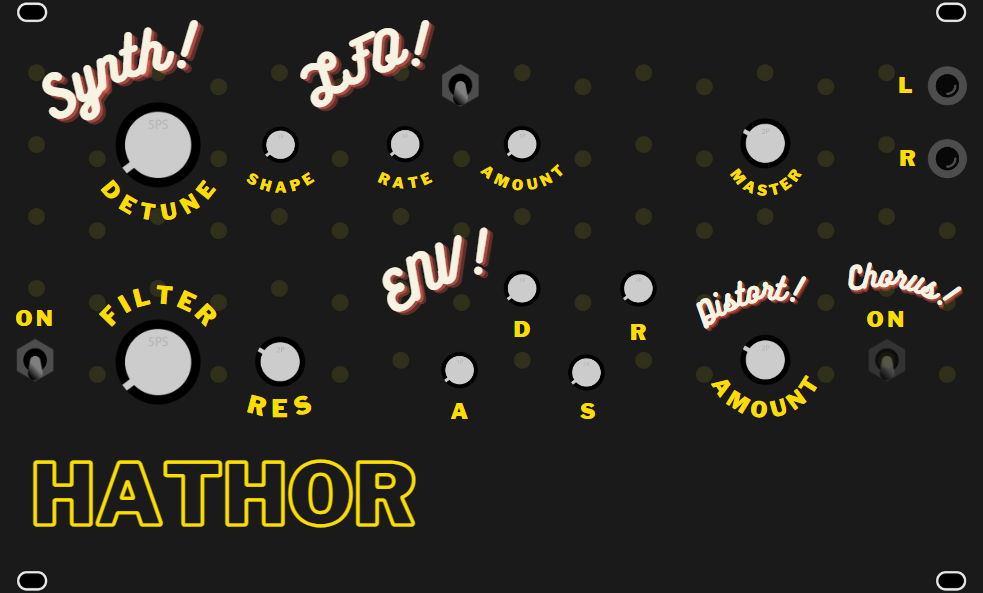
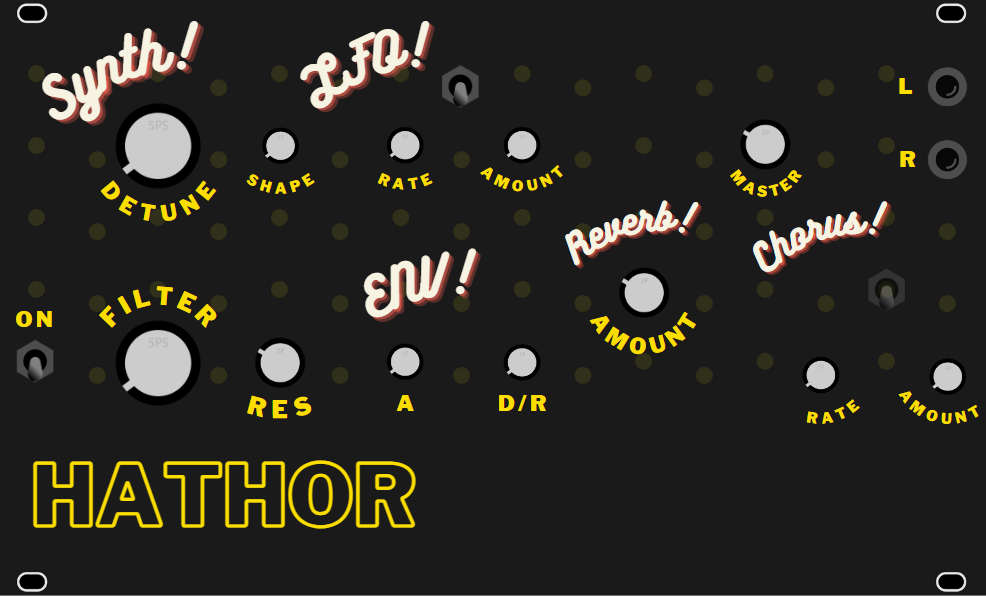
add reverb, dry/wet, update image for layout

diff --git a/src/hathor.cpp b/src/hathor.cpp
@@ -28,14 +28,16 @@ static Oscillator osc, lfo;
 static Adsr env;
 static bool filterEnabled;
 static bool lfoEnabled;
+static ReverbSc DSY_SDRAM_BSS verb;
 
 float oscFreq = 440;
+float masterAmp;
 float lfoFreq;
 float lfoAmount;
 float lfoOutput;
 float filterFreq;
-
-bool isPlaying = false;
+float verbDry;
+float verbWet;
 bool gate;
 
 enum AdcChannel {
@@ -48,6 +50,9 @@ enum AdcChannel {
     lfoSwitch,
     lfoRateKnob,
     lfoAmountKnob,
+    attackKnob,
+    drKnob,
+    verbAmountKnob,
     NUM_ADC_CHANNELS
 };
 
@@ -55,7 +60,7 @@ static void AudioCallback(AudioHandle::InterleavingInputBuffer  in,
                           AudioHandle::InterleavingOutputBuffer out,
                           size_t                                size)
 {
-    float envOut, oscOutput, output;
+    float envOut, oscOutput, output, sigWet;
     for(size_t i = 0; i < size; i += 2)
     {
         // Default to filterFreq in case lfo is not enabled
@@ -69,15 +74,15 @@ static void AudioCallback(AudioHandle::InterleavingInputBuffer  in,
             filter.SetFreq(filterMixFreq);
         }
 
-
         envOut = env.Process(gate);
         osc.SetAmp(envOut);
         oscOutput = osc.Process();
-        output = filterEnabled ? filter.Process(oscOutput) : oscOutput;
+        output = filterEnabled ? filter.Process(oscOutput) * 3 : oscOutput;
 
+        verb.Process( output, 0, &sigWet, 0);
 
         // left & right combined, mix the oscillators
-        out[i] = out[i + 1] = output;
+        out[i] = out[i + 1] = (output * verbDry + sigWet * verbWet) * masterAmp;
     }
 }
 
@@ -111,6 +116,9 @@ int main(void)
     adcConfig[lfoSwitch].InitSingle(seed::D13);
     adcConfig[lfoRateKnob].InitSingle(seed::A6);
     adcConfig[lfoAmountKnob].InitSingle(seed::A7);
+    adcConfig[attackKnob].InitSingle(seed::A5);
+    adcConfig[drKnob].InitSingle(seed::A2);
+    adcConfig[verbAmountKnob].InitSingle(seed::A9);
     hw.adc.Init(adcConfig, NUM_ADC_CHANNELS);
 
     hw.SetAudioBlockSize(4);
@@ -140,10 +148,14 @@ int main(void)
     lfo.Init(sample_rate);
 
     env.Init(sample_rate);
-	env.SetTime(ADSR_SEG_ATTACK, .1);
-	env.SetTime(ADSR_SEG_DECAY, .1);
-	env.SetTime(ADSR_SEG_RELEASE, .4);
+	env.SetTime(ADSR_SEG_ATTACK, getFloat(attackKnob));
+	env.SetTime(ADSR_SEG_DECAY, getFloat(drKnob));
+	env.SetTime(ADSR_SEG_RELEASE, getFloat(drKnob));
     env.SetSustainLevel(.25);
+
+    verb.Init(sample_rate);
+    verb.SetFeedback(0.95f);
+    verb.SetLpFreq(16000.0f);
 
     // Initialize the GPIO object
     // Mode: INPUT - because we want to read from the button
@@ -192,24 +204,26 @@ int main(void)
                     auto note_msg = msg.AsNoteOn();
                     if(note_msg.velocity != 0) {
                         osc.SetFreq(mtof(note_msg.note));
-                        osc.SetAmp(getFloat(masterKnob));
-                        isPlaying = true;
                         gate = true;
                     }
                 }
                 break;
                 case NoteOff:
                 {
-                    osc.SetAmp(0.0f);
-                    isPlaying = false;
                     gate = false;
                 }
                 break;
                 default: break;
             }
 
-            env.SetTime(ADSR_SEG_ATTACK, .1);
-	        env.SetTime(ADSR_SEG_RELEASE, .4);
+            env.SetTime(ADSR_SEG_ATTACK, getFloat(attackKnob));
+	        env.SetTime(ADSR_SEG_RELEASE, getFloat(drKnob));
+
+            verbWet = (fmap(getFloat(verbAmountKnob), 0, 1));
+            verbDry = (-1 + verbWet) * -1;
+
+            // Update master knob
+            masterAmp = getFloat(masterKnob);
         }
 
         //hw.Print("filterSwitchValue:" FLT_FMT3 "\n", FLT_VAR3(filterSwitchValue));
